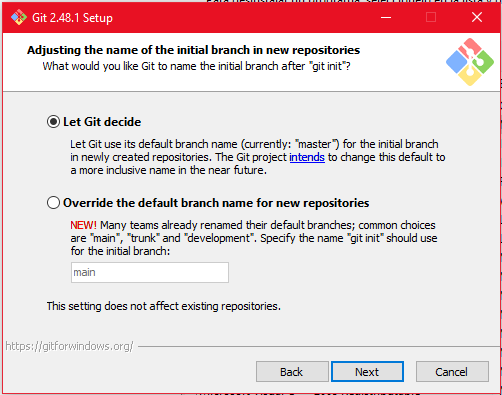
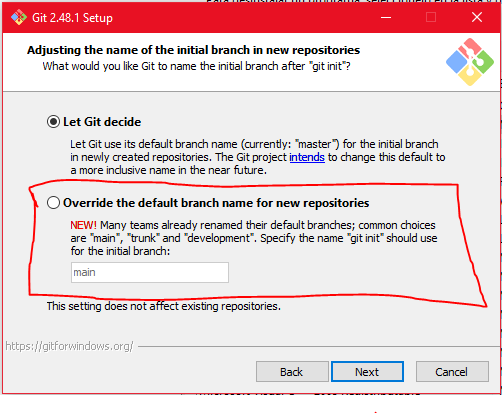
Añadiendo imagen configuracion git

diff --git a/Clase2-IntroduccionLineaComandos/Clase2.md b/Clase2-IntroduccionLineaComandos/Clase2.md
@@ -2,6 +2,12 @@
 
 En caso de ser usuario de Windows es necesario contar con la Git Bash, puedes descargarla dando click [aquí](https://git-scm.com/downloads/win)
 
-El proceso de instalación es bastance sencillo
+El proceso de instalación es bastante sencillo.
 
-![asd](Imagenes/instalarGit.PNG)
+Cuando veas una pantalla como la siguiente, asegúrate de seleccionar la segunda opción (marcada en rojo). Para todo lo demás, puedes hacer clic en "Siguiente" sin problemas.
+
+![ConfiguracionGit](../Imagenes/instalarGit.PNG)
+
+Para usuarios de Windows, abre Git Bash.
+Para usuarios de Mac, abre la Terminal para continuar con el proceso.
+
